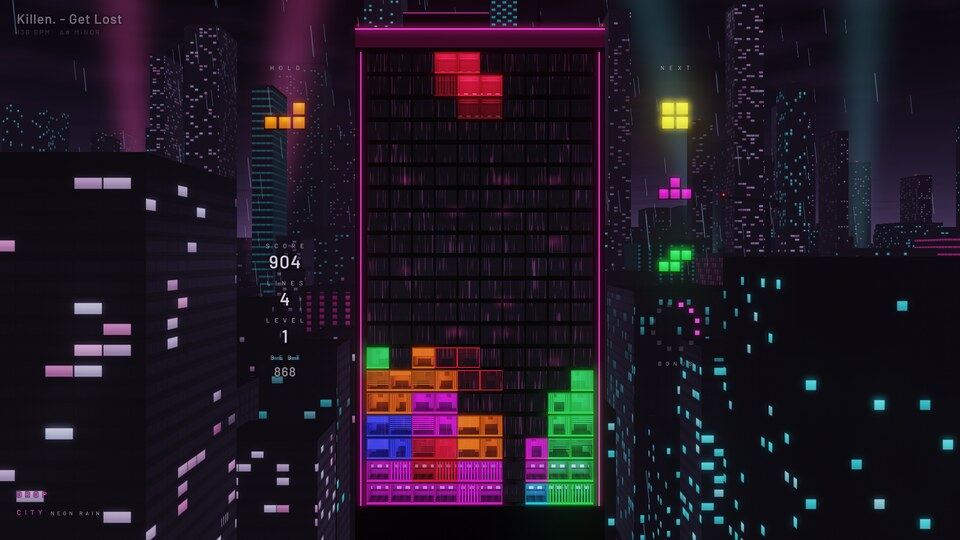
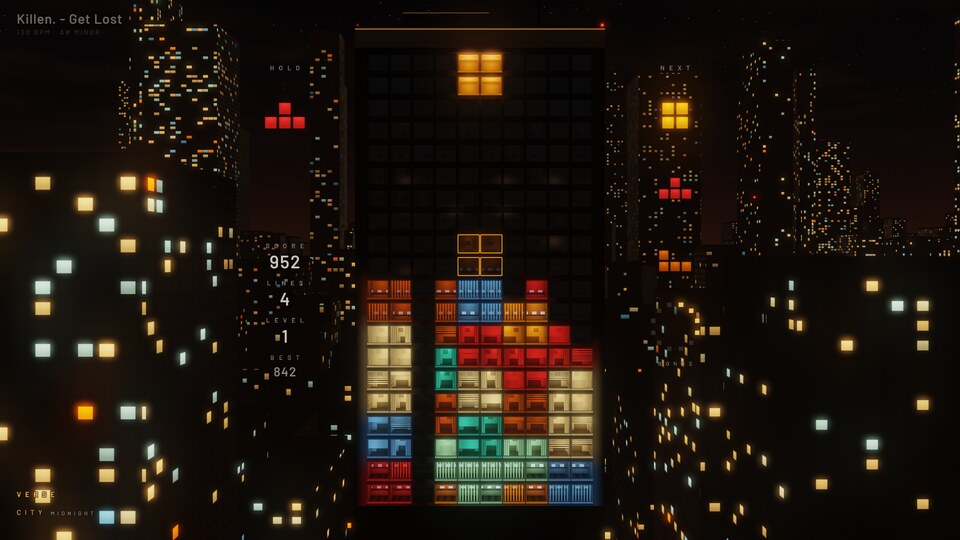
CITY: real interior lights: the pieces are lamps behind windows (fluorescent, tungsten, lantern, TV, halogen, sodium, aquarium) tilted per night; rooms lit like a lamp's pool of light; the city's windows in the same lamp colors; drops go brighter and warmer; NEON RAIN becomes RAIN
Claude-Session: https://claude.ai/code/session_01DBPtRFs6M8Q4o53Qj6BCRE

diff --git a/src/universes/city/city.cpp b/src/universes/city/city.cpp
@@ -95,7 +95,8 @@ mat4 inverse(const mat4& m) {
 // The variants: the sky (top, horizon, the city's light pollution, fog, the clouds lit from below), the night's
 // light (ambient, moon, the streets' glow from below), the streets' sodium, the city's window light, the tower
 // (frame, glass tint), the buildings' albedo (near, far), the accent, the HUD's text and halo, what the glass
-// reflects of the city, the seven pieces' lights (I O T S Z J L, each its own hue), fog density, the facade
+// reflects of the city, the seven pieces' lamps (I fluorescent, O tungsten, T a red lantern, S a TV, Z halogen, J sodium,
+// L an aquarium; one family tilted to each night, O, J and Z parted by value and saturation), fog density, the facade
 // (mullions, spandrels, depth of the windows), reflectivity, stars, clouds, rain, snow, glow, exposure.
 struct VariantDef {
     const char* name;
@@ -105,42 +106,43 @@ struct VariantDef {
 };
 const VariantDef VARIANTS[] = {
     // a glass tower after the blue hour: the last deep blue in the sky, cold glass
-    {"BLUE HOUR", 0x02050e, 0x0d1a33, 0x3a3040, 0x0b1426, 0x1a1e30, 0x060a14, 0x0c1426, 0x2a1e18, 0xff9a40, 0xffd2a0,
-     0x161a22, 0xc8d8ff, 0x10141c, 0x0c1220, 0x8fd8ff, 0xe4ecf6, 0x02040a, 0xffd8a8,
-     {0x58e6ff, 0xffd640, 0xc070ff, 0x5ef078, 0xff4848, 0x4a78ff, 0xff9030},
+    {"BLUE HOUR", 0x02050e, 0x0d1a33, 0x382a26, 0x0b1426, 0x1a1e30, 0x060a14, 0x0c1426, 0x2a1e18, 0xff9a40, 0xffd2a0,
+     0x161a22, 0xc8d8ff, 0x10141c, 0x0c1220, 0x8ab8f0, 0xe4ecf6, 0x02040a, 0xffd8a8,
+     {0xaff1d2, 0xfba041, 0xd43c3d, 0x6da8ed, 0xfbe3b4, 0xbd600a, 0x4ec6bc},
      0.0045f, 0.1f, 0.22f, 0.2f, 0.7f, 0.25f, 0.f, 0.f, 0.f, 0.5f, 1.f},
     // downtown at midnight: bronze frames, a sodium haze, warm rooms
     {"MIDNIGHT", 0x010204, 0x0c0a0e, 0x40220e, 0x0e0a08, 0x2a1a10, 0x040406, 0x06070c, 0x3a2410, 0xffa040, 0xffc070,
      0x1c1610, 0xffe8c8, 0x0e0c0c, 0x0c0a0a, 0xffb45a, 0xf0e4d4, 0x020100, 0xffc080,
-     {0x8af0e0, 0xffd050, 0xff6ad0, 0x9ef060, 0xff4030, 0x6a80ff, 0xff9030},
+     {0xb0f3c0, 0xff991a, 0xe1342f, 0x6ba8e0, 0xffdf9c, 0xc75d00, 0x40c8ae},
      0.005f, 0.12f, 0.26f, 0.35f, 0.5f, 0.35f, 0.5f, 0.f, 0.f, 0.6f, 1.f},
-    // a rainy night in neon: a magenta haze, wet glass
-    {"NEON RAIN", 0x030108, 0x14081e, 0x3a0c38, 0x120818, 0x2a0e2e, 0x05030a, 0x08060e, 0x2a0c28, 0xff50c0, 0x80eeff,
-     0x100e16, 0xe0c8ff, 0x0c0a12, 0x0e0a14, 0xff4ad8, 0xf4e8ff, 0x030106, 0xff70d0,
-     {0x30eaff, 0xfff030, 0xff30e0, 0x40ff60, 0xff3048, 0x4a5aff, 0xff8020},
+    // a rainy night: a low sodium haze, wet glass, the streets shining
+    {"RAIN", 0x020407, 0x0e1116, 0x34220e, 0x101318, 0x221c16, 0x05070a, 0x07090d, 0x2c1c0e, 0xff9a40, 0xffc890,
+     0x101216, 0xe0e6ee, 0x0c0e12, 0x0e1014, 0x6fd0c4, 0xeef0f0, 0x020304, 0xffc890,
+     {0xb3f2cb, 0xff9f3f, 0xd93c3b, 0x70a8e5, 0xffe3ad, 0xc1600a, 0x4fc7b5},
      0.008f, 0.08f, 0.2f, 0.1f, 0.9f, 0.f, 0.8f, 1.f, 0.f, 0.7f, 1.f},
     // fog before dawn: the far towers lost, the lights blooming in the fog
     {"FOG DAWN", 0x0a0e16, 0x1c222c, 0x30241e, 0x161a20, 0x1a1c22, 0x0a0c12, 0x0c1018, 0x201812, 0xffb060, 0xffd090,
      0x1a1e24, 0xd8e0ea, 0x12161c, 0x141820, 0xffa070, 0xe2e6ea, 0x04060a, 0xffd0a0,
-     {0x90e8f0, 0xffe070, 0xe080ff, 0x80f090, 0xff6058, 0x7098ff, 0xffa860},
+     {0xb8f0d2, 0xf6a35a, 0xce4646, 0x76a7e3, 0xfbe4b9, 0xb8632d, 0x62c5b9},
      0.02f, 0.1f, 0.22f, 0.2f, 0.6f, 0.f, 0.3f, 0.f, 0.f, 0.4f, 1.1f},
     // a brutalist block at dusk's end: raw concrete, deep windows, rooms in the colors of modernist loggias
     {"BRUTALIST", 0x03050a, 0x1a1418, 0x50281a, 0x120e0e, 0x30201a, 0x080808, 0x0e0c0c, 0x30201a, 0xff9040, 0xffc888,
-     0x5a5650, 0xfff0e0, 0x16151a, 0x121116, 0xff4a30, 0xf2ede6, 0x030202, 0xffc090,
-     {0x70d8f0, 0xffc810, 0xb050e0, 0x30c058, 0xe82818, 0x2850e8, 0xff7010},
+     0x5a5650, 0xfff0e0, 0x16151a, 0x121116, 0xe0603c, 0xf2ede6, 0x030202, 0xffc090,
+     {0xabf4c9, 0xff9801, 0xe12f2f, 0x67a8ed, 0xffe1a4, 0xc75c00, 0x33c9b7},
      0.0055f, 0.26f, 0.34f, 1.f, 0.25f, 0.2f, 0.3f, 0.f, 0.f, 0.6f, 1.f},
     // a snowy evening: brick, snow falling and lying on the ledges and roofs
     {"SNOWFALL", 0x03050c, 0x161a2c, 0x382a30, 0x141828, 0x22242e, 0x080a12, 0x10141e, 0x2a2020, 0xffa050, 0xffc47c,
      0x221a1a, 0xffffff, 0x101218, 0x12141c, 0xbfdcff, 0xeef2ff, 0x020308, 0xffc890,
-     {0xa8f0ff, 0xffd060, 0xf070e0, 0x70e080, 0xff4848, 0x7088ff, 0xffa040},
+     {0xadf0d9, 0xf1a04e, 0xcb4043, 0x6ea7f1, 0xf3e2bc, 0xb5611d, 0x54c5c1},
      0.007f, 0.14f, 0.26f, 0.45f, 0.4f, 0.f, 0.6f, 0.f, 1.f, 0.5f, 1.05f},
 };
 constexpr int VARIANT_COUNT = (int)(sizeof(VARIANTS) / sizeof(VARIANTS[0]));
 
-// A drop's two colors (linear): designed pairs of saturated hues, a new pair each drop.
-const vec3 HUES[] = {{1.f, 0.05f, 0.55f}, {0.f, 0.85f, 1.f}, {1.f, 0.55f, 0.f}, {0.35f, 0.15f, 1.f},
-                     {0.3f, 1.f, 0.2f}, {1.f, 0.85f, 0.05f}, {1.f, 0.1f, 0.15f}, {0.05f, 0.4f, 1.f}};
-const int PAIRS[][2] = {{0, 1}, {2, 3}, {4, 0}, {5, 7}, {6, 1}, {3, 2}, {1, 5}, {7, 6}};
+// A drop's two colors, from the night's own lamps: 0 tungsten (O), 1 sodium (J), 2 halogen (Z), 3 fluorescent (I),
+// 4 the night's accent lamp (one of the cooler or redder pieces), a new pair each drop.
+const int DROP_LAMPS[5] = {1, 5, 4, 0, -1};
+const int ACCENT_PIECE[6] = {3, 2, 6, 3, 2, 3}; // per variant: S blue, T red, L teal
+const int PAIRS[][2] = {{0, 4}, {1, 2}, {2, 4}, {0, 2}, {1, 4}, {2, 0}, {0, 3}, {1, 0}}; // the first always warm
 constexpr int PAIR_COUNT = (int)(sizeof(PAIRS) / sizeof(PAIRS[0]));
 constexpr float GROUND_Y = -30.f, EYE_Y = 1.f, PITCH = 22.f;
 const vec3 BEACON_RED{1.f, 0.06f, 0.02f};
@@ -445,9 +447,15 @@ void CityUniverse::pickDropColors() {
     int h = r.irange(0, PAIR_COUNT - 1);
     if (h == lastPair_) h = (h + 1 + r.irange(0, PAIR_COUNT - 3)) % PAIR_COUNT;
     lastPair_ = h;
-    const bool swap = r.uniform() < 0.5f;
-    dropA_ = HUES[PAIRS[h][swap ? 1 : 0]];
-    dropB_ = HUES[PAIRS[h][swap ? 0 : 1]];
+    const VariantDef& d = VARIANTS[variant_];
+    auto lamp = [&](int i) {
+        const int p = DROP_LAMPS[i] < 0 ? ACCENT_PIECE[variant_ % 6] : DROP_LAMPS[i];
+        vec3 c = lin(d.piece[p]);
+        const float m = std::max(c.x, std::max(c.y, c.z));
+        return c * (1.15f / std::max(m, 1e-3f)); // brighter than the rooms, the lamp's own hue
+    };
+    dropA_ = lamp(PAIRS[h][0]); // the warm one: the glow, the crowns
+    dropB_ = lamp(PAIRS[h][1]);
     dropIndex_++;
 }
 
@@ -963,7 +971,7 @@ void CityUniverse::render(const Frame& f, GLuint fbo) {
     // slow motion, a long exposure: a colder, deeper night
     const vec3 cold = lin(0x0a1a48);
     const vec3 skyTop = lerp(pal_.top, cold * 0.15f, 0.6f * slow_), skyHor = lerp(pal_.hor, cold * 0.6f, 0.6f * slow_);
-    const vec3 glowCol = lerp(lerp(pal_.glow, (dropA_ + dropB_) * 0.15f, 0.5f * smoothstepf(0.f, 0.5f, drop_)), cold * 0.3f, 0.6f * slow_);
+    const vec3 glowCol = lerp(lerp(pal_.glow, dropA_ * 0.3f, 0.5f * smoothstepf(0.f, 0.5f, drop_)), cold * 0.3f, 0.6f * slow_);
     const float glowK = pal_.glowK * (lerpf(0.7f, 1.f, lvm) + 0.25f * peakK + 0.5f * swell) * (1.f - 0.6f * black);
     const vec3 cityLight = lerp(pal_.city, vec3(0.45f, 0.7f, 1.f), 0.7f * slow_) * (worldOn * lerpf(1.f, 1.3f, peakK));
     const vec3 fogCol = lerp(lerp(pal_.fog, skyHor, 0.3f), glowCol * 0.5f, 0.2f) * (1.f - bri) + bridge_.color * bri;
@@ -1065,6 +1073,21 @@ void CityUniverse::render(const Frame& f, GLuint fbo) {
     set3f(progBox_, "uFogCol", fogCol);
     set1f(progBox_, "uFogD", fogD);
     set3f(progBox_, "uCityLight", cityLight);
+    {
+        // the city's lamps: the night's own tungsten, fluorescent, halogen, a dim TV and sodium (unit luminance),
+        // all turning cold in slow motion
+        const vec3 src[5] = {pal_.city, pal_.piece[0], pal_.piece[4], lerp(pal_.piece[3], pal_.piece[0], 0.35f), pal_.piece[5]};
+        float lc[15];
+        for (int i = 0; i < 5; i++) {
+            vec3 c = src[i];
+            const float y = std::max(0.2126f * c.x + 0.7152f * c.y + 0.0722f * c.z, 1e-4f);
+            c = c * ((i == 3 ? 0.55f : 1.f) / y);
+            if (i == 1) c = lerp(c, vec3(1.f), 0.45f); // fluorescent tubes read nearly white from afar
+            c = lerp(c, vec3(0.45f, 0.7f, 1.f) * 1.4f, 0.7f * slow_);
+            lc[i * 3] = c.x; lc[i * 3 + 1] = c.y; lc[i * 3 + 2] = c.z;
+        }
+        glUniform3fv(ugl::U(progBox_, "uLamp"), 5, lc);
+    }
     set3f(progBox_, "uDropA", dropA_);
     set3f(progBox_, "uDropB", dropB_);
     set3f(progBox_, "uCrownCol", crownCol);
@@ -1118,7 +1141,7 @@ void CityUniverse::render(const Frame& f, GLuint fbo) {
     set1i(progTower_, "uCellB", 1);
     set3f(progTower_, "uEye", eye_);
     set3f(progTower_, "uFrame", pal_.frame * (1.f - 0.5f * black));
-    set3f(progTower_, "uGlassTint", pal_.tint);
+    set3f(progTower_, "uGlassTint", lerp(pal_.tint, vec3(1.f), 0.6f)); // only a hint of the glass color: the lamps keep their own
     {
         vec3 gc = pal_.piece[0];
         if (game.hasPiece()) gc = pal_.piece[std::clamp(game.piece().type, 0, 6)];
@@ -1131,7 +1154,7 @@ void CityUniverse::render(const Frame& f, GLuint fbo) {
     set3f(progTower_, "uMoonCol", pal_.moon);
     set3f(progTower_, "uMoonDir", MOON_DIR);
     set3f(progTower_, "uSnowCol", lin(0xdfe6f4) * 0.4f);
-    set3f(progTower_, "uReflCity", pal_.reflCity * (0.25f * (1.f - black) * worldOn) + crownCol * (0.05f * crown));
+    set3f(progTower_, "uReflCity", pal_.reflCity * (0.25f * (1.f - black) * worldOn) + crownCol * (0.02f * crown));
     set1f(progTower_, "uMull", pal_.mull);
     set1f(progTower_, "uSpand", pal_.spand);
     set1f(progTower_, "uRecess", pal_.recess);

diff --git a/src/universes/city/shaders.hpp b/src/universes/city/shaders.hpp
@@ -172,6 +172,7 @@ out vec4 frag;
 uniform vec3 uEye, uMoonDir, uMoonCol, uAmb, uUpCol, uFogCol, uCityLight, uDropA, uDropB, uCrownCol, uSnowCol;
 uniform float uFogD, uTime, uLitFrac, uDropK, uPatEpoch, uPatPhase, uBlack, uFlash, uSnow, uGroundY;
 uniform float uEq[8];
+uniform vec3 uLamp[5]; // the city's room lights (unit luminance): tungsten, fluorescent, halogen, a TV, sodium
 uniform vec4 uQuiet[2]; // the HUD's columns, in pixels (gl_FragCoord): the windows there are dimmer
 void main() {
     vec3 n = normalize(vN);
@@ -226,8 +227,10 @@ void main() {
         float ep = floor((uTime + h * per) / per);
         float frac = uLitFrac * vA2.x;
         float lit = mix(step(hash12(key * 1.37 + ep * 3.7), frac), frac, tiny);
-        vec3 wc = uCityLight * (0.5 + 0.8 * hash12(key + ep * 3.1));
-        if (hash12(key * 2.1 + ep) < 0.22) wc = vec3(lumv(wc)) * vec3(0.72, 0.88, 1.15);
+        // each window a real lamp: mostly tungsten, some fluorescent offices, halogen, the odd TV, a sodium stairwell
+        float pk = hash12(key * 2.1 + ep);
+        vec3 lampC = pk < 0.52 ? uLamp[0] : (pk < 0.74 ? uLamp[1] : (pk < 0.88 ? uLamp[2] : (pk < 0.95 ? uLamp[3] : uLamp[4])));
+        vec3 wc = lampC * lumv(uCityLight) * (0.5 + 0.8 * hash12(key + ep * 3.1));
         if (uDropK > 0.001) {
             float rows = max(1.0, floor(H - 0.8));
             int pat = int(mod(floor(seed * 7.0) + uPatEpoch, 5.0));
@@ -322,12 +325,23 @@ vec3 roomAt(vec3 Q, vec3 r, vec3 lo, vec3 hi, vec3 L, int kind, float s, float a
     vec3 dl = lamp - H;
     float d2 = dot(dl, dl);
     float alb = surf == 0 ? 0.75 : (surf == 1 ? 0.6 : (surf == 2 ? 0.3 : 0.85));
-    float k = 0.18 + 1.4 / (1.0 + d2 * 7.0);
+    // the surfaces' own colors, gently: off-white walls, the floor carpet or wood
+    vec3 tint = surf == 2 ? (kind == 1 ? vec3(1.15, 0.9, 0.72) : (kind == 0 ? vec3(0.95, 0.97, 1.02) : vec3(1.1, 0.88, 0.82)))
+                          : vec3(1.04, 1.0, 0.94);
+    // a real lamp: a pool of light falling off with distance, the walls far from it in shadow
+    float k = 0.05 + 1.9 / (1.0 + d2 * 10.0);
+    // the light under a shade or a ceiling light throws a soft cone on the back wall
+    if (surf == 0) {
+        float dx = (H.x - lamp.x) / sz.x, dy = (H.y - lamp.y) / sz.y;
+        k += (kind == 1 ? 0.9 : 0.45) * exp(-dx * dx * 14.0) * smoothstep(-0.05, 0.25, kind == 1 ? dy : -dy) * exp(-abs(dy) * 2.5);
+    }
+    // near the lamp its light reads paler (a hot filament), its color deepens with the falloff
+    vec3 Lk = mix(L * 1.08, vec3(lumv(L)) * 1.15, 0.12 * smoothstep(0.9, 1.9, k));
     float dark = 1.0;
     vec3 add = vec3(0.0);
     if (kind == 0) {
         // an office: strip lights on the ceiling, desks and screens against the back wall
-        if (surf == 3) add += L * 2.2 * smoothstep(0.08, 0.03, abs(fract(u.z * 2.0) - 0.5)) * step(0.1, u.x) * step(u.x, 0.9);
+        if (surf == 3) add += mix(L, vec3(lumv(L)), 0.45) * 2.2 * smoothstep(0.08, 0.03, abs(fract(u.z * 2.0) - 0.5)) * step(0.1, u.x) * step(u.x, 0.9);
         if (surf == 0 && u.y < 0.32 && u.y > 0.24) dark = 0.35;
         if (surf == 0 && u.y > 0.32 && u.y < 0.46 && fract(u.x * 2.5 + s) < 0.5)
             add += vec3(lumv(L)) * vec3(0.6, 0.85, 1.3) * 0.9;
@@ -340,14 +354,14 @@ vec3 roomAt(vec3 Q, vec3 r, vec3 lo, vec3 hi, vec3 L, int kind, float s, float a
         if (surf == 1) dark = 0.75 + 0.25 * step(0.5, fract(u.y * 4.0 + s)); // shelves
         if (surf == 2) dark = 0.75;
         vec3 sh = H - (lamp + vec3(0.0, 0.12, 0.0));
-        add += L * 1.6 * exp(-dot(sh, sh) * 90.0);
+        add += mix(L, vec3(lumv(L)), 0.3) * 1.6 * exp(-dot(sh, sh) * 90.0);
     } else {
         // a hotel room: a bed's head against the back wall, a warm ceiling light
         if (surf == 0 && u.y < 0.36 && abs(u.x - 0.5) < 0.35) dark = 0.45;
         if (surf == 0 && u.y < 0.5 && u.y > 0.36 && abs(u.x - 0.5) < 0.35) dark = 0.7;
         if (surf == 3) add += L * 1.5 * exp(-dot(u.xz - 0.5, u.xz - 0.5) * 40.0);
     }
-    vec3 lit = L * (alb * k * dark) + add;
+    vec3 lit = Lk * tint * (alb * k * dark) + add;
     // a little light from outside, the corner shading
     float ao = 0.7 + 0.3 * smoothstep(0.0, 0.15, min(min(u.x, 1.0 - u.x), min(u.y, 1.0 - u.y)));
     return lit * ao + vec3(amb) * alb * dark;
@@ -420,7 +434,7 @@ void main() {
         float sill = smoothstep(gb - 0.09, gb - 0.06, lp.y) * smoothstep(gb + 0.005, gb - 0.02, lp.y) * step(abs(lp.x), gx + 0.04);
         fr *= 1.0 + 0.5 * sill;
         vec3 spill = texture(uCellA, vec2((P.x + 5.0) / 10.0, (10.0 - P.y) / 20.0)).rgb;
-        fr += spill * 0.05 + A * 0.35 * sill + A * 0.18 * smoothstep(0.1, 0.0, sd);
+        fr += spill * 0.04 + A * 0.2 * sill + A * 0.06 * smoothstep(0.08, 0.0, sd);
         fr += reflection(reflect(r, vec3(0.0, 0.0, 1.0))) * 0.06 * uReflK;
         if (uSnow > 0.0) fr = mix(fr, uSnowCol * (lightIn * 3.0 + A * 0.5), uSnow * sill);
         vec3 g = vec3(0.0);
@@ -430,7 +444,7 @@ void main() {
             vec3 Q = P + r * (rd / -r.z);
             vec2 ql = Q.xy - ctr - oc;
             if (abs(ql.x) > oh.x || abs(ql.y) > oh.y) {
-                vec3 rv = uFrame * lightIn * 0.6 + A * 0.4;
+                vec3 rv = uFrame * lightIn * 0.6 + A * 0.22 * (0.4 + 0.6 * smoothstep(-oh.y, oh.y, ql.y));
                 if (ql.y > oh.y) rv *= 0.5; // the head of the opening, in its own shadow
                 g = rv;
             } else {
@@ -438,11 +452,14 @@ void main() {
                 vec3 lo = vec3(ctr.x - 0.49, ctr.y - 0.47, -rd - 1.3);
                 vec3 hi = vec3(ctr.x + 0.49, ctr.y + 0.48, -rd);
                 bool on = lumv(A) > 0.0005;
-                vec3 Lr = A + uGhostCol * B.r * 0.08;
+                vec3 Lr = (A + uGhostCol * B.r * 0.08) * 0.85;
                 vec3 room = roomAt(Q, r, lo, hi, Lr, kind, s, uRoomAmb);
                 // what hangs at the glass: blinds, drapes, a roller blind, a sheer, or nothing
                 float tsel = kind == 0 ? (s < 0.6 ? 0.0 : 5.0) : floor(s * 5.0);
-                vec3 diff = (A + uGhostCol * B.r * 0.08) * 0.75 + vec3(uRoomAmb) * 0.6;
+                float lampU = kind == 1 ? 0.2 + 0.6 * fract(s * 7.31) : 0.5;
+                float glow = kind == 1 ? 0.55 + 0.6 * exp(-(uv.x - lampU) * (uv.x - lampU) * 8.0) * (1.0 - 0.4 * uv.y)
+                                       : 0.5 + 0.55 * uv.y;
+                vec3 diff = (A + uGhostCol * B.r * 0.08) * 0.62 * glow + vec3(uRoomAmb) * 0.6;
                 if (tsel == 1.0) { // venetian blinds over the top part
                     float cov = 0.35 + 0.5 * fract(s * 13.0);
                     float sl = smoothstep(0.1, 0.25, fract(uv.y * 9.0)) * (1.0 - smoothstep(0.65, 0.8, fract(uv.y * 9.0)));
@@ -467,9 +484,9 @@ void main() {
                 vec3 refl = reflection(vec3(r.x, r.y, -r.z));
                 if (uRain > 0.0) {
                     float sN = vnoise(vec2(Q.x * 26.0, Q.y * 1.3 + uTime * 1.6));
-                    refl += (refl + uReflCity * 0.2) * uRain * smoothstep(0.7, 0.95, sN) * 2.0;
+                    refl += (refl + uReflCity * 0.1) * uRain * smoothstep(0.75, 0.95, sN);
                 }
-                g = room + refl * F * (on ? 0.5 : 1.0);
+                g = room + refl * F * (on ? 0.3 : 1.0);
             }
         }
         // the ghost: the window's frame lit in the piece's light

diff --git a/docs/universes.md b/docs/universes.md
@@ -152,7 +152,7 @@ A page of a squared notebook, drawn by hand in stop motion. The well is a box dr
 
 ![CITY](universes/city.jpg)
 
-A tower's facade in a 3D night city, its windows the board (code in `src/universes/city/`). We look across at a tall modern tower from about thirty floors up, through a shift lens (the camera looks straight ahead and its image is shifted, so the facade faces the camera, the 10 × 20 window grid stays crisp and the board keeps the layout's pixels while the rest of the city is seen in perspective). Each cell is a recessed window: reveals and a sill seen in perspective, glass reflecting the night sky and the skyline (more at grazing angles, beaded with rain in NEON RAIN), and behind it a real room traced per pixel (back wall, side walls, floor, ceiling). The interior belongs to the window, not to the piece: each floor has its use (offices with strip lights, desks and screens; flats with a sofa, a picture, shelves and a lamp; hotel rooms with a bed head and a ceiling light) and each window its own furniture and its own blinds, drapes, roller blind or sheer, so a cell keeps the same room whatever piece lands in it. There are no people anywhere, in the tower or in the city: the rooms are furnishings and light only. A block is a lit window, its room lit by the piece's light; the seven pieces are told apart by their light's color only (seven clearly distinct hues per variant). The lit rooms spill light on the mullions and the sill around them and glow into the haze; an empty cell is a dark room behind dark glass. The falling piece is four rooms lighting up as it moves, a little brighter, settling softly to their own brightness when it lands; the ghost is four window frames lit in its color. Lights only ever change smoothly (short eased blends, no surge, no flicker, no blink): only a cleared floor goes dark quickly. The tower has stone piers with a light strip, floodlights washing its base, a louvred crown, a parapet light and a mast. Around it the city in perspective: blocks of towers on a street grid far below, glass or stone, their faces lit by a dim moon, the sky and the streets' glow from below, the glass reflecting the sky, their small windows lit and put out slowly; the streets with their lamps and traffic; light pollution on the horizon, a deck of clouds lit from below, haze thickening with distance; red aircraft beacons on the tallest towers, a crane turning slowly; bloom on every light and a filmic curve with deep blacks. Six nights, each with its own seven lights and its own tower: BLUE HOUR (a glass tower, the last blue in the sky), MIDNIGHT (bronze frames, warm rooms, a sodium glow), NEON RAIN (magenta haze, rain falling and on the glass), FOG DAWN (the far towers lost in a cold fog), BRUTALIST (raw concrete, deep-set windows, the tower floodlit) and SNOWFALL (dark brick, falling snow), from the mode, brightness, tempo, bass and density (`--universe "city:neon rain"`). A break is the city asleep (few windows, thick haze, the beacons blinking on their own); mid wakes it (more windows, the traffic, the beacons on the beat grid every two beats); a chorus lights the crowns of the towers and the tower's piers, two volumetric searchlights sweeping slowly through the haze; a new section puts the city's windows out and lights them again elsewhere. A drop switches the city at once on its downbeat: the towers in the middle distance turn their windows to the drop's two colors (a new designed pair each drop) in stripes, checks, diagonals or level meters following the music's bands, a new pattern every two bars, the other buildings keep their scattered windows in the drop's colors; four colored searchlights cut through the haze, the crowns and piers lit, the beacons hitting with the kicks. Nothing pulses the whole scene, the stack and the HUD never move, and the buildings behind the HUD's columns stay quiet. A lock leaves the piece lit with a soft glow along the ledge under it; a cleared floor's rooms go dark in about a seventh of a second (at the real speed even in slow motion; nothing is drawn over the row), then the floors above step down one by one in smooth crossfades. A Tetris sends fireworks up over the city and a chase of the pieces' colors up the tower's piers. Slow motion is a long exposure: a colder, deeper night, the city's lights cold and fewer, a wider bloom. Game over is a blackout floor by floor from the top, the city going dark with it and waking up again a few seconds later. It leaves and enters with the world fading to the bridge, the lit windows in its ink. Rendered in HDR: the sky, the ground and the instanced buildings into a depth buffer, the facade as one quad reading the board from two 10 × 20 textures, depth-tested light points (beacons, fireworks, rain, snow), bloom, then the volumetric searchlight beams, cut by the depth, in the final pass. The bonus gauge is twelve small windows in a ring, one lit per line. Its HUD font is Barlow (SIL Open Font License, `src/universes/city/OFL-Barlow.txt`).
+A tower's facade in a 3D night city, its windows the board (code in `src/universes/city/`). We look across at a tall modern tower from about thirty floors up, through a shift lens (the camera looks straight ahead and its image is shifted, so the facade faces the camera, the 10 × 20 window grid stays crisp and the board keeps the layout's pixels while the rest of the city is seen in perspective). Each cell is a recessed window: reveals and a sill seen in perspective, glass reflecting the night sky and the skyline (more at grazing angles, beaded with rain in RAIN), and behind it a real room traced per pixel (back wall, side walls, floor, ceiling). The interior belongs to the window, not to the piece: each floor has its use (offices with strip lights, desks and screens; flats with a sofa, a picture, shelves and a lamp; hotel rooms with a bed head and a ceiling light) and each window its own furniture and its own blinds, drapes, roller blind or sheer, so a cell keeps the same room whatever piece lands in it. There are no people anywhere, in the tower or in the city: the rooms are furnishings and light only. A block is a lit window, its room lit by the piece's lamp; the seven pieces are told apart by their light's color only, and the colors are those of real lamps behind windows at 2 am (a Hopper "Nighthawks" night): I an office fluorescent (pale green-white), O a warm tungsten bulb (amber), T a red paper lantern, S the cold blue of a TV, Z a pale halogen cream, J a deep sodium orange (darker and more saturated than the amber, so O, J and Z part by value and saturation), L an aquarium's teal. The light behaves like a lamp in a room: a pool of light around the ceiling light or the floor lamp, a soft cone on the back wall, paler near the bulb and deeper in the falloff, shadowed corners, blinds and curtains lit from behind. The lit rooms spill light on the mullions and the sill around them and glow into the haze; an empty cell is a dark room behind dark glass. The falling piece is four rooms lighting up as it moves, a little brighter, settling softly to their own brightness when it lands; the ghost is four window frames lit in its color. Lights only ever change smoothly (short eased blends, no surge, no flicker, no blink): only a cleared floor goes dark quickly. The tower has stone piers with a light strip, floodlights washing its base, a louvred crown, a parapet light and a mast. Around it the city in perspective: blocks of towers on a street grid far below, glass or stone, their faces lit by a dim moon, the sky and the streets' glow from below, the glass reflecting the sky, their small windows lit and put out slowly, in the same real lamp colors (mostly tungsten, some fluorescent offices, halogen, the odd TV, a sodium stairwell), no neon; the streets with their lamps and traffic; light pollution on the horizon, a deck of clouds lit from below, haze thickening with distance; red aircraft beacons on the tallest towers, a crane turning slowly; bloom on every light and a filmic curve with deep blacks. Six nights, each tilting the same seven lamps to its mood and with its own tower: BLUE HOUR (a glass tower, the last blue in the sky, the lamps a touch cooler), MIDNIGHT (bronze frames, a sodium glow, the lamps warmest), RAIN (a low sodium haze, rain falling and on the glass), FOG DAWN (the far towers lost in a cold fog, the lamps softer), BRUTALIST (raw concrete, deep-set windows, the tower floodlit, the lamps richest) and SNOWFALL (dark brick, falling snow, the lamps colder), from the mode, brightness, tempo, bass and density (`--universe "city:rain"`). A break is the city asleep (few windows, thick haze, the beacons blinking on their own); mid wakes it (more windows, the traffic, the beacons on the beat grid every two beats); a chorus lights the crowns of the towers and the tower's piers, two volumetric searchlights sweeping slowly through the haze; a new section puts the city's windows out and lights them again elsewhere. A drop switches the city at once on its downbeat: the towers in the middle distance turn their windows to two of the night's lamps, brighter (a warm one, which also takes the horizon's glow and the crowns, and a second warm one or the night's accent lamp; a new pair each drop) in stripes, checks, diagonals or level meters following the music's bands, a new pattern every two bars, the other buildings keep their scattered windows in the drop's colors; four colored searchlights cut through the haze, the crowns and piers lit, the beacons hitting with the kicks. Nothing pulses the whole scene, the stack and the HUD never move, and the buildings behind the HUD's columns stay quiet. A lock leaves the piece lit with a soft glow along the ledge under it; a cleared floor's rooms go dark in about a seventh of a second (at the real speed even in slow motion; nothing is drawn over the row), then the floors above step down one by one in smooth crossfades. A Tetris sends fireworks up over the city and a chase of the pieces' colors up the tower's piers. Slow motion is a long exposure: a colder, deeper night, the city's lights cold and fewer, a wider bloom. Game over is a blackout floor by floor from the top, the city going dark with it and waking up again a few seconds later. It leaves and enters with the world fading to the bridge, the lit windows in its ink. Rendered in HDR: the sky, the ground and the instanced buildings into a depth buffer, the facade as one quad reading the board from two 10 × 20 textures, depth-tested light points (beacons, fireworks, rain, snow), bloom, then the volumetric searchlight beams, cut by the depth, in the final pass. The bonus gauge is twelve small windows in a ring, one lit per line. Its HUD font is Barlow (SIL Open Font License, `src/universes/city/OFL-Barlow.txt`).
 
 ## Transitions between universes
 
